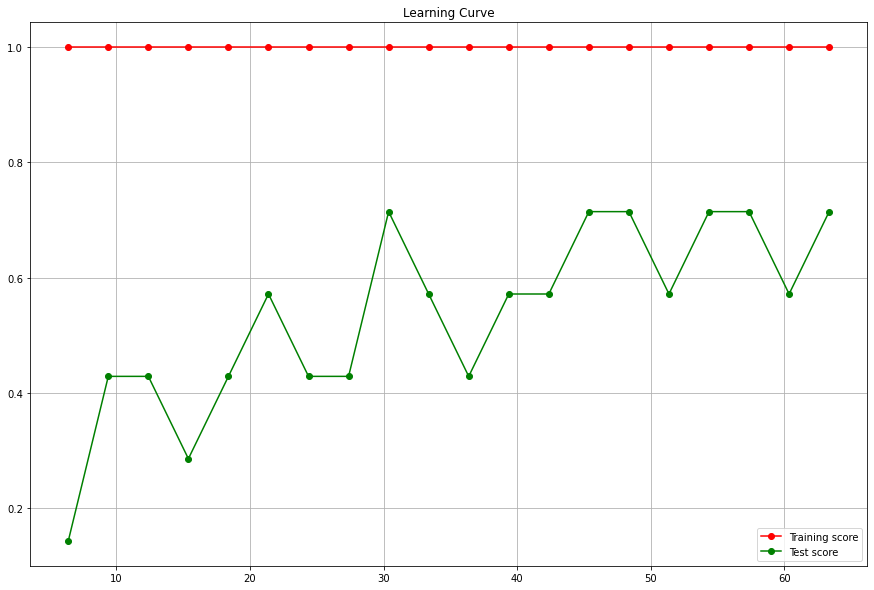
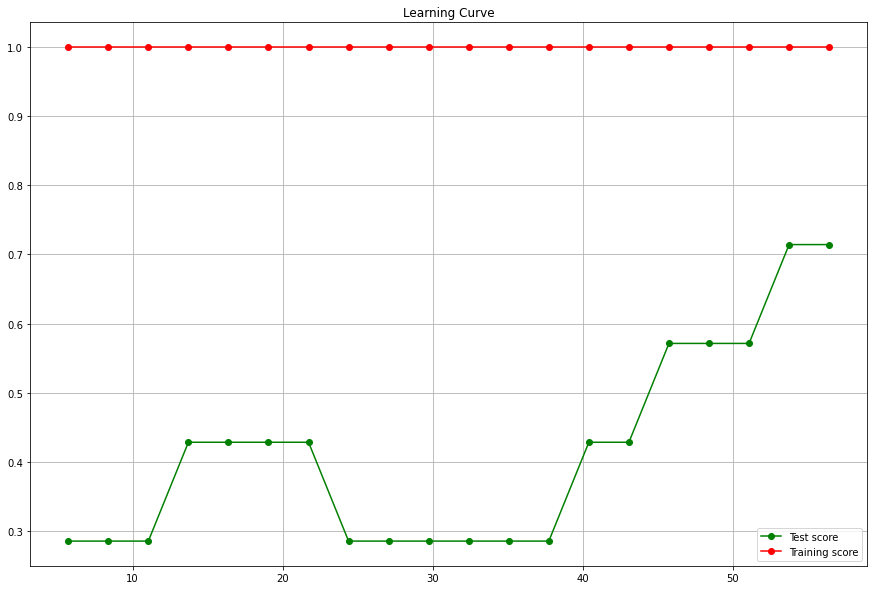
YETER

diff --git a/6. Hafta/abdullah2.py b/6. Hafta/abdullah2.py
@@ -47,10 +47,6 @@ antis = antis[1:]
 dataX = np.vstack((antis,drones))
 dataY = np.vstack((np.zeros((31,1)),np.ones((33,1))))
 
-test_sizes = np.linspace(0.1,0.99,20)
-lst=[]
-lst2=[]
-
 scaler = StandardScaler()
 scaler.fit(dataX)
 dataX = scaler.transform(dataX)
@@ -60,13 +56,15 @@ X_train, X_test, y_train, y_test = train_test_split(dataX, dataY,
 xxt = X_test
 yyt = y_test
 
-mlp = MLPClassifier(hidden_layer_sizes=(10), max_iter=2000)
+mlp = MLPClassifier(hidden_layer_sizes=(10), max_iter=2000,random_state=5654)
 
 if not control:
     mlp.fit(X_train, y_train.ravel())
 
 size=X_train.shape[0]
-
+test_sizes = np.linspace(0.1,0.99,20)
+lst=[]
+lst2=[]
 for i in test_sizes:
     xt = X_train[:round(size*i),:]
     yt = y_train[:round(size*i),:]
@@ -76,7 +74,7 @@ for i in test_sizes:
     lst.append(1-mlp.score(xt,yt))
     lst2.append(1-mlp.score(xxt,yyt))
     
-a=test_sizes*64
+a=test_sizes*size
 
 fig, axes = plt.subplots(figsize=(15, 10))
 axes.set_title("Learning Curve")
@@ -84,5 +82,5 @@ axes.grid()
 axes.plot(a,lst2, 'o-', color="g",label="Test error")
 axes.plot(a,lst, 'o-', color="r",label="Training error")
 axes.legend(loc="best")
-
 plt.show()
+

diff --git a/6. Hafta/abdullah1.py b/6. Hafta/abdullah1.py
@@ -143,7 +143,7 @@ title = "Learning Curve"
 # score curves, each time with 20% data randomly selected as a validation set.
 cv = ShuffleSplit(n_splits=20, test_size=0.2, random_state=3)
 
-estimator = MLPClassifier(hidden_layer_sizes=(10), max_iter=1000)
+estimator = MLPClassifier(hidden_layer_sizes=(5,5), max_iter=2000,random_state=5654)
 plot_learning_curve(estimator, title, dataX, dataY.ravel(), axes, ylim=(0, 1.1),
                     cv=cv, n_jobs=4, train_sizes=np.linspace(.1, 1.0, 5))
 
